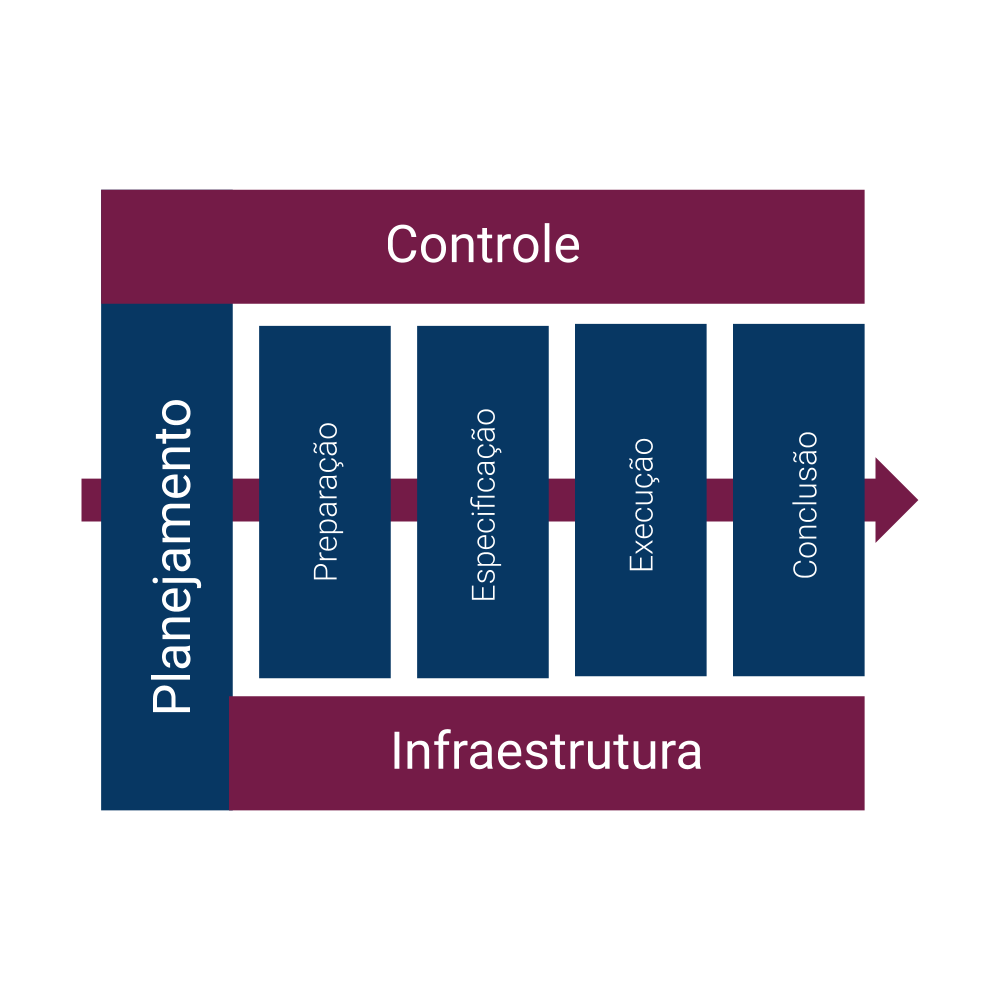
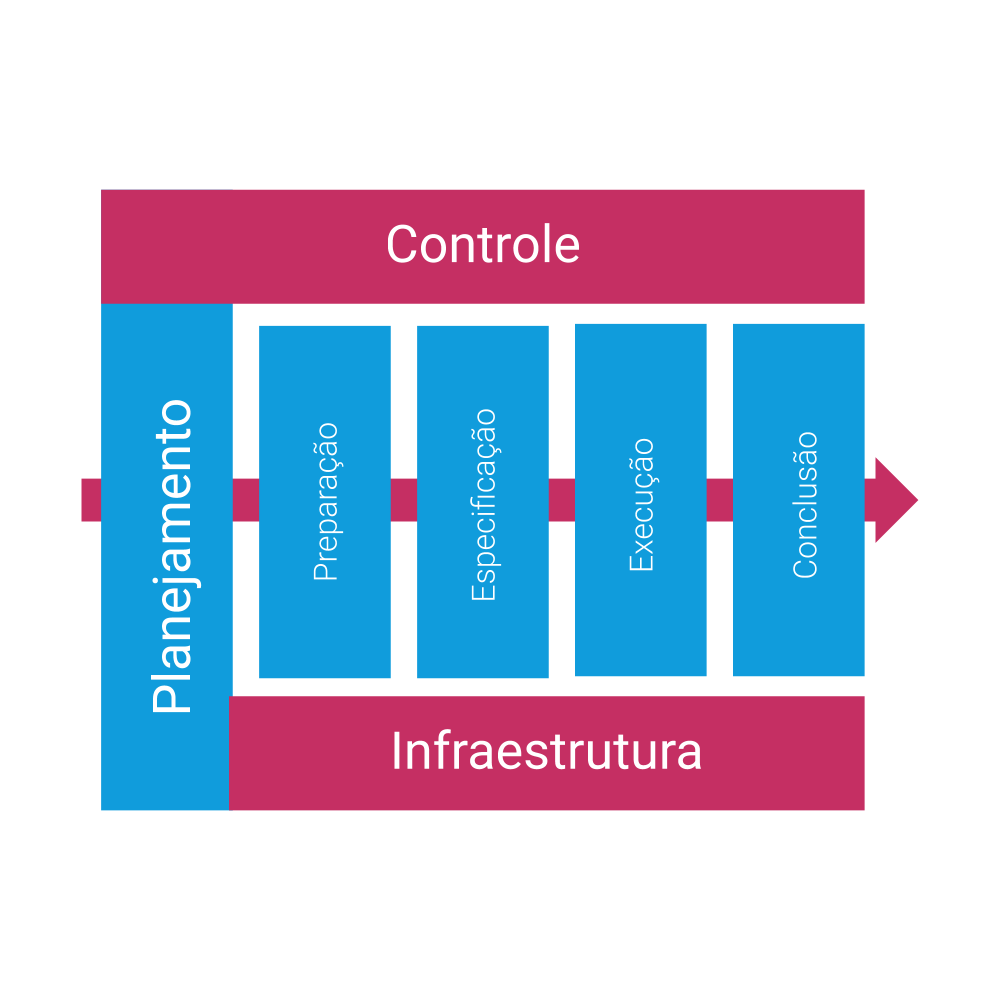
adds new visual identity

diff --git a/TMoh/assets/css/main.css b/TMoh/assets/css/main.css
@@ -100,10 +100,10 @@ input, select, textarea {
 
 	body {
 		background-color: #935d8c;
-		background-image: url("images/overlay.png"), -moz-linear-gradient(45deg, #741A47 15%, #053663 85%);
-		background-image: url("images/overlay.png"), -webkit-linear-gradient(45deg, #741A47 15%, #053663 85%);
-		background-image: url("images/overlay.png"), -ms-linear-gradient(45deg, #741A47 15%, #053663 85%);
-		background-image: url("images/overlay.png"), linear-gradient(45deg, #741A47 15%, #053663 85%);
+		background-image: url("images/overlay.png"), -moz-linear-gradient(45deg, #C7285F 15%, #009CDE 85%);
+		background-image: url("images/overlay.png"), -webkit-linear-gradient(45deg, #C7285F 15%, #009CDE 85%);
+		background-image: url("images/overlay.png"), -ms-linear-gradient(45deg, #C7285F 15%, #009CDE 85%);
+		background-image: url("images/overlay.png"), linear-gradient(45deg, #C7285F 15%, #009CDE 85%);
 	}
 
 		body.is-preload *, body.is-preload *:before, body.is-preload *:after {
@@ -2292,7 +2292,7 @@ input, select, textarea {
 
 		.icon.style1 {
 			color: #ffffff;
-			background-image: linear-gradient(45deg, #741A47 15%, #053663 85%)
+			background-image: linear-gradient(45deg, #C7285F 15%, #009CDE 85%);
 		}
 
 		.icon.style2 {
@@ -2887,19 +2887,19 @@ input, select, textarea {
 			/* #741A47 15%, #053663 */
 
 			.statistics li.style1 {
-				background-color: #173763;
+				background-color: #4D88C6;
 			}
 
 			.statistics li.style2 {
-				background-color: #2A3562;
+				background-color: #7275AD;
 			}
 
 			.statistics li.style3 {
-				background-color: #4E2C57;
+				background-color: #905C93;
 			}
 
 			.statistics li.style4 {
-				background-color: #75204C;
+				background-color: #BB3A6D;
 			}
 
 			.statistics li.style5 {
@@ -3549,10 +3549,10 @@ input, select, textarea {
 
 		#main header.major h2:after {
 			background-color: #dddddd;
-			background-image: url("images/overlay.png"), -moz-linear-gradient(45deg, #741A47 15%, #053663 85%);
-			background-image: url("images/overlay.png"), -webkit-linear-gradient(45deg, #741A47 15%, #053663 85%);
-			background-image: url("images/overlay.png"), -ms-linear-gradient(45deg, #741A47 15%, #053663 85%);
-			background-image: url("images/overlay.png"), linear-gradient(45deg, #741A47 15%, #053663 85%);
+			background-image: url("images/overlay.png"), -moz-linear-gradient(45deg, #C7285F 15%, #009CDE 85%);
+			background-image: url("images/overlay.png"), -webkit-linear-gradient(45deg, #C7285F 15%, #009CDE 85%);
+			background-image: url("images/overlay.png"), -ms-linear-gradient(45deg, #C7285F 15%, #009CDE 85%);
+			background-image: url("images/overlay.png"), linear-gradient(45deg, #C7285F 15%, #009CDE 85%);
 		}
 
 		#main table tbody tr {

diff --git a/TMoh/index.html b/TMoh/index.html
@@ -190,7 +190,8 @@
 								Herbert</a>.
 							O TMoh foi construído tendo como ponto de partida os principais riscos presentes no processo
 							de desenvolvimento de aplicações móveis biomédicas. Estes riscos foram identificados
-							através de uma revisão sistemática da literatura.
+							através de uma revisão sistemática da literatura. O logo e a identidade visual do TMoh 
+							foram criados por <a href="https://www.behance.net/gb_design">Gabriel Belló Klein</a>.
 						</p>
 					</div>
 					<span class="image"><img src="images/rodrigo.png" alt="Rodrigo" /></span>
